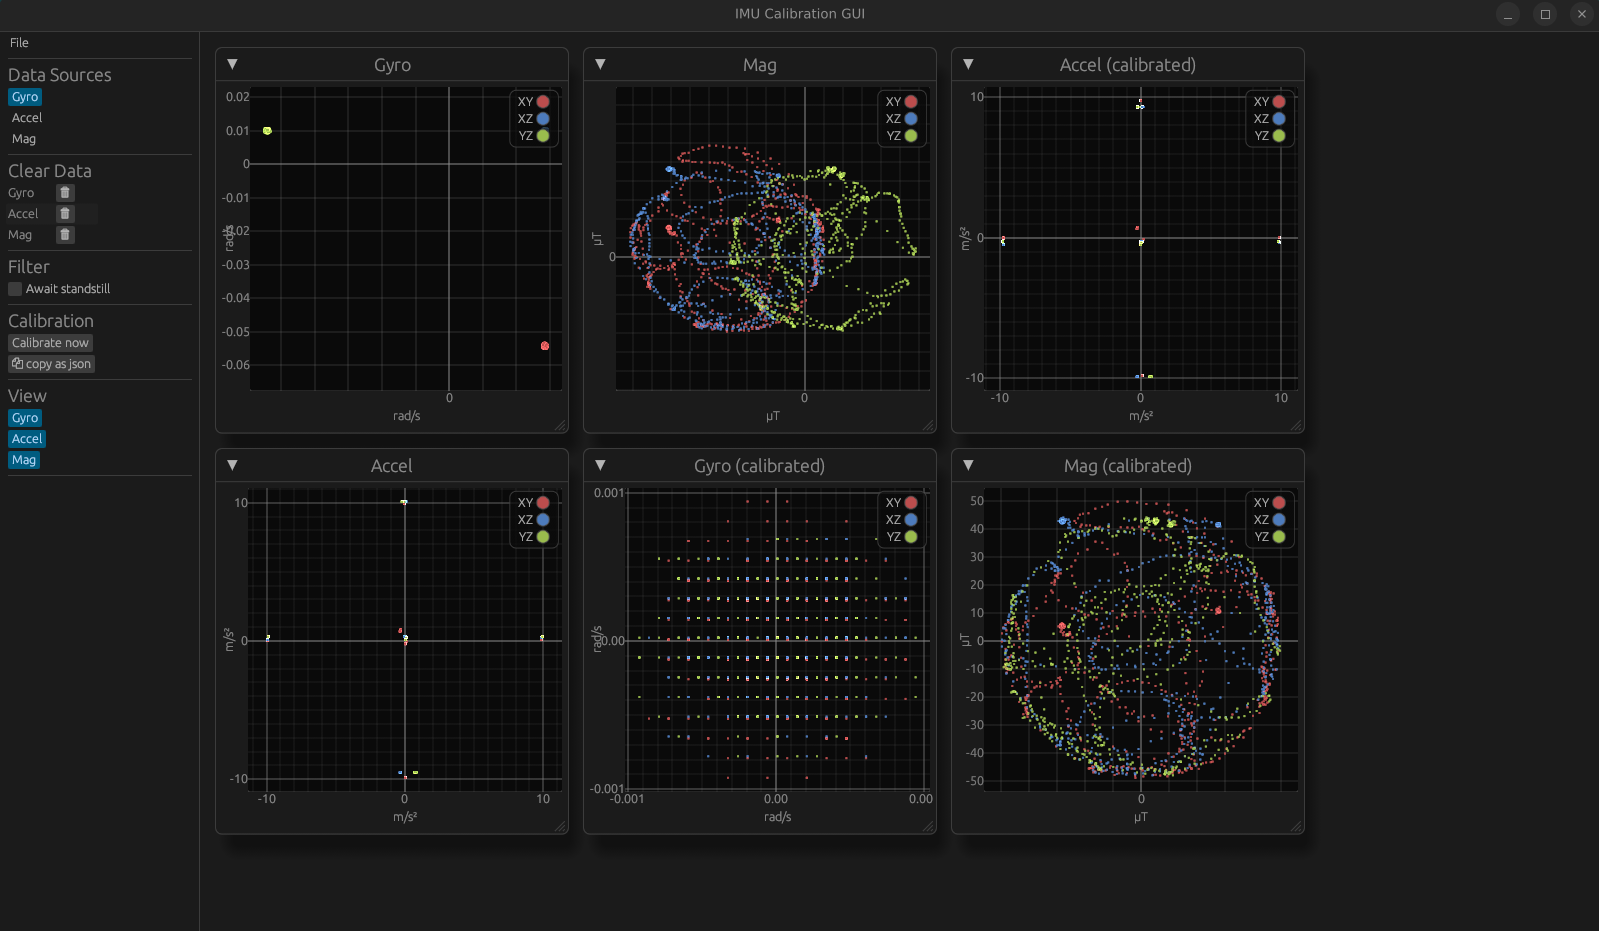
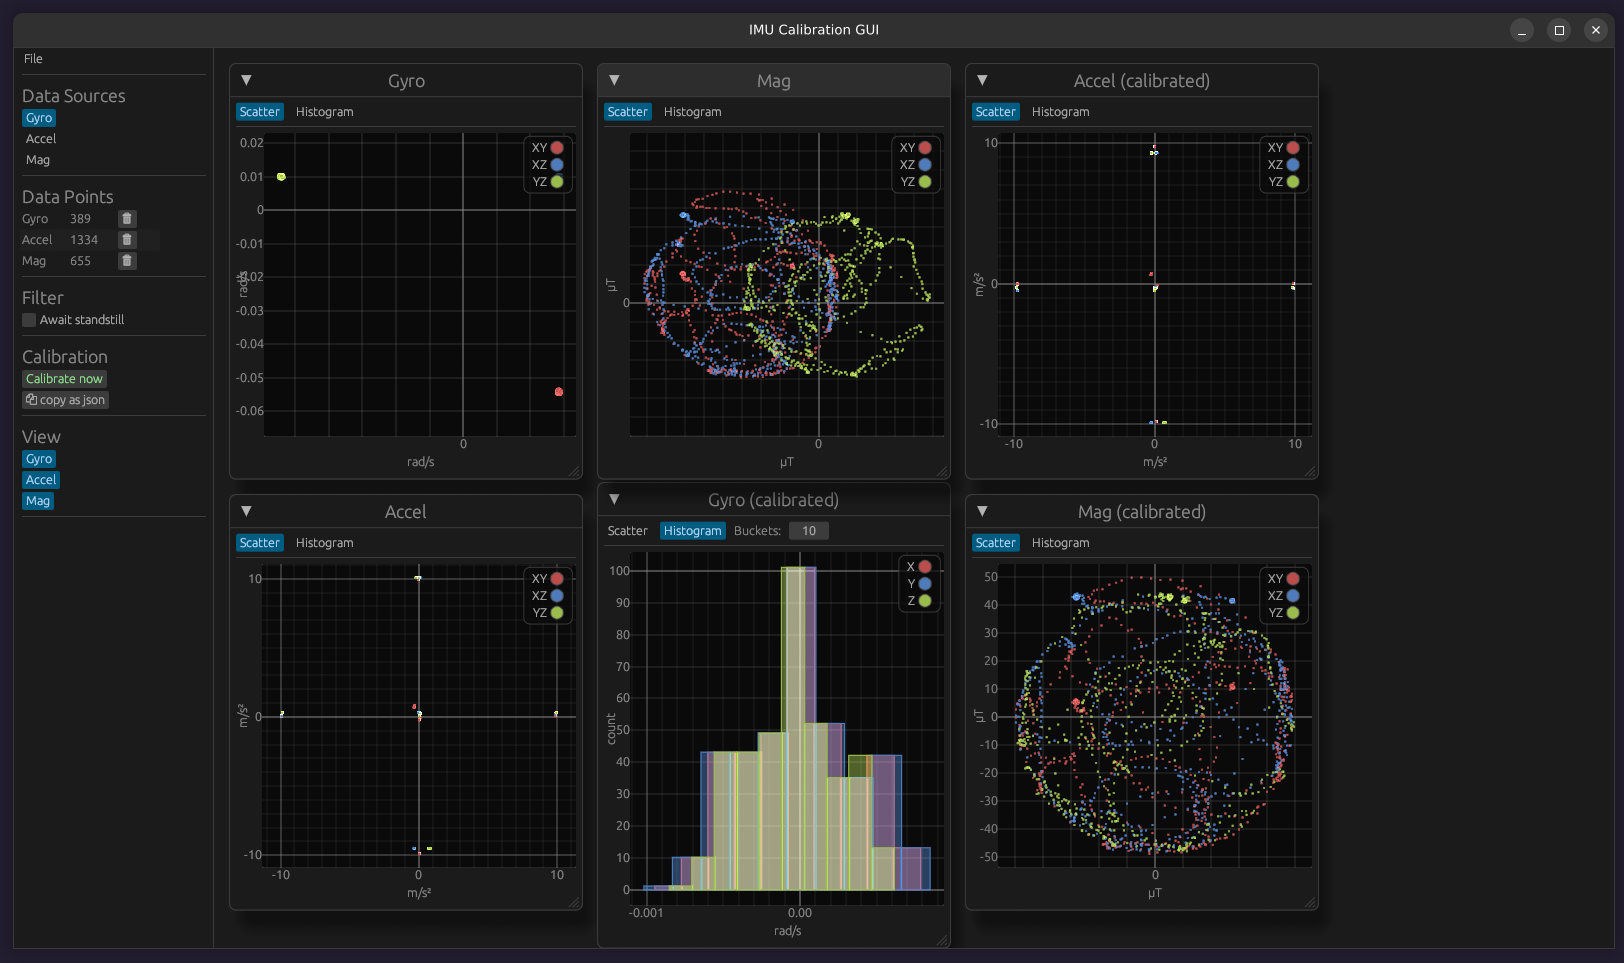
ui tweaks, readme

diff --git a/src/ui.rs b/src/ui.rs
@@ -1,7 +1,7 @@
 use std::sync::mpsc::Receiver;
 
 use crate::cal::*;
-use eframe::egui::{self};
+use eframe::egui::{self, Color32, RichText};
 use eframe::egui::{Style, Visuals};
 use egui::menu;
 use egui_modal::Modal;
@@ -211,41 +211,51 @@ impl eframe::App for MyApp {
             });
             ui.separator();
 
+            ui.add_space(5.0);
             ui.heading("Data Sources");
             ui.toggle_value(&mut self.collect_gyro, "Gyro");
             ui.toggle_value(&mut self.collect_acc, "Accel");
             ui.toggle_value(&mut self.collect_mag, "Mag");
             ui.separator();
 
-            ui.heading("Clear Data");
+            ui.add_space(5.0);
+            ui.heading("Data Points");
             egui::Grid::new("grid")
-                .num_columns(2)
+                .num_columns(3)
                 .striped(true)
                 .show(ui, |ui| {
                     ui.label("Gyro");
-                    if ui.button("🗑").clicked() {
+                    ui.label(format!("{}", self.cal.gyro_measurements().len()));
+                    if ui.button("🗑").on_hover_text("clear").clicked() {
                         self.cal.clear_gyro_measurements();
                     }
                     ui.end_row();
                     ui.label("Accel");
-                    if ui.button("🗑").clicked() {
+                    ui.label(format!("{}", self.cal.acc_measurements().len()));
+                    if ui.button("🗑").on_hover_text("clear").clicked() {
                         self.cal.clear_accel_measurements();
                     }
                     ui.end_row();
                     ui.label("Mag");
-                    if ui.button("🗑").clicked() {
+                    ui.label(format!("{}", self.cal.mag_measurements().len()));
+                    if ui.button("🗑").on_hover_text("clear").clicked() {
                         self.cal.clear_mag_measurements();
                     }
                 });
 
             ui.separator();
 
+            ui.add_space(5.0);
             ui.heading("Filter");
             ui.checkbox(&mut self.filter_standstill, "Await standstill");
             ui.separator();
 
+            ui.add_space(5.0);
             ui.heading("Calibration");
-            if ui.button("Calibrate now").clicked() {
+            if ui
+                .button(RichText::new("Calibrate now").color(Color32::LIGHT_GREEN))
+                .clicked()
+            {
                 self.cal_data = Some(self.cal.calibrate());
                 modal_cal_data.open();
             }
@@ -256,6 +266,7 @@ impl eframe::App for MyApp {
             }
             ui.separator();
 
+            ui.add_space(5.0);
             ui.heading("View");
             ui.toggle_value(&mut self.show_gyro, "Gyro");
             ui.toggle_value(&mut self.show_acc, "Accel");
@@ -344,7 +355,7 @@ fn plot_window(
     data: &[nalgebra::Vector3<f64>],
 ) {
     egui::Window::new(window_title).show(ctx, |ui| {
-        ui.horizontal_top(|ui| {
+        ui.horizontal(|ui| {
             ui.selectable_value(plot_type, PlotType::Scatter, "Scatter");
             ui.selectable_value(plot_type, PlotType::Histogram(10), "Histogram");
 

diff --git a/README.md b/README.md
@@ -9,10 +9,11 @@ This is a simple GUI that helps you calibrate your IMU (accelerometer, gyroscope
 * Gyro offset calibration
 * Accelerometer offset and scale calibration
 * Magnetometer soft- and hard-iron calibration
-* Save and load measurements [*]
+* Interactive plots (scatter and histogram)
+* Save and load measurements (json) [*]
 * ROS2 integration to receive sensor messages
 
-[*] Some example measurements are provided in the `test files` folder.
+[*] Some example measurements are provided in the `test_files` folder.
 
 ## ROS Topics
 
@@ -34,8 +35,8 @@ cargo r --release
 
 ## Acknowledgements
 
-* The code is in part based on `nliaudat`'s Python implementation found [here](https://github.com/nliaudat/magnetometer_calibration).
-* `TESLABS` magnetometer calibration explanations found [here](https://teslabs.com/articles/magnetometer-calibration/)
+* The magnetometer calibration code is in part based on `nliaudat`'s Python implementation found [here](https://github.com/nliaudat/magnetometer_calibration).
+* `TESLABS` magnetometer calibration guide found [here](https://teslabs.com/articles/magnetometer-calibration/)
 
 ## License
 
